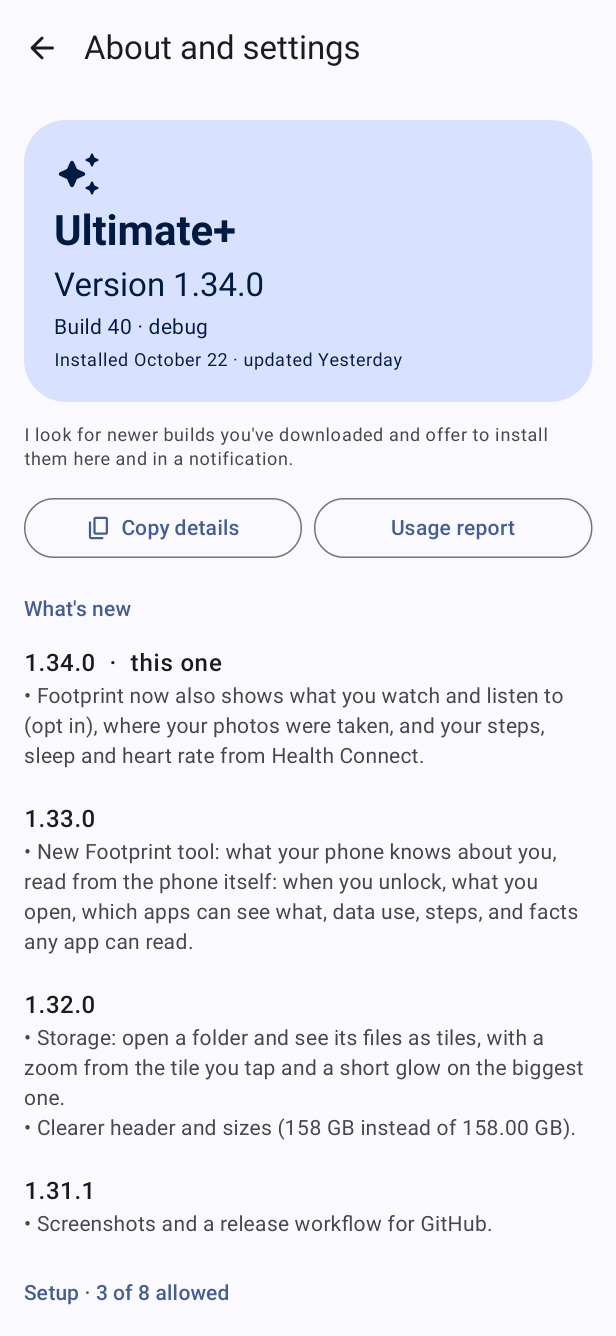
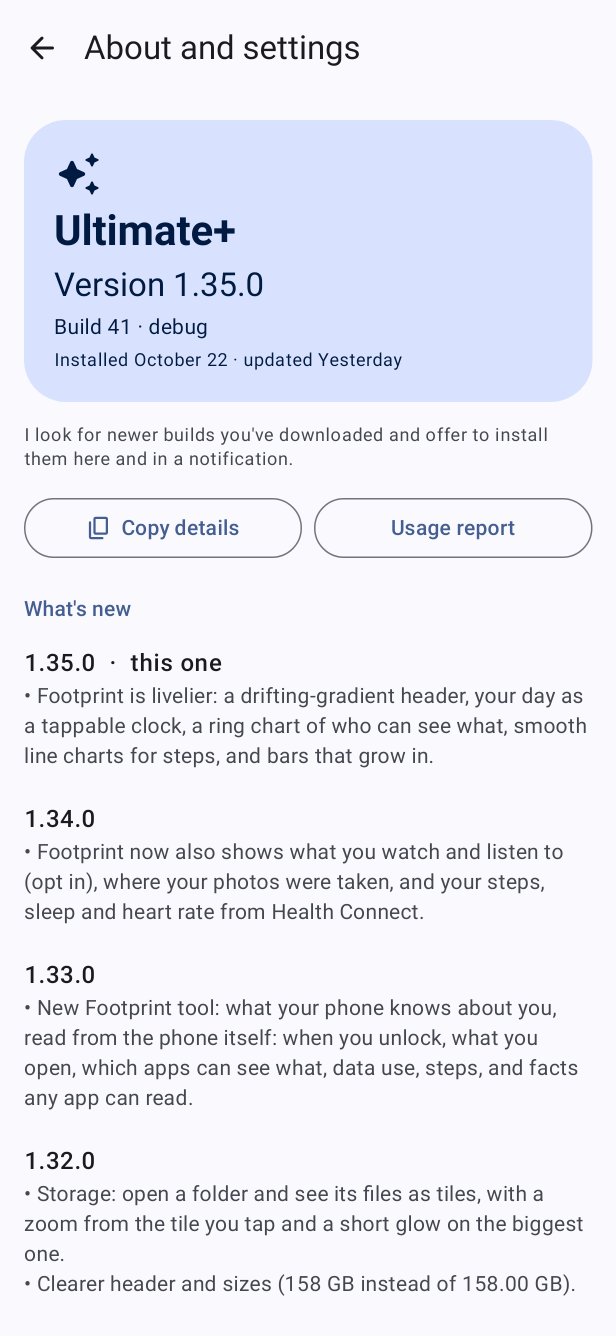
feat(footprint): exposure gauge, parallax header, shimmer, haptics, live map and equalizer (1.36.0)
Claude-Session: https://claude.ai/code/session_01Tx3SnRy1Ho2ASXx4YFffLW

Changed region(s): [[0.0308, 0.491, 0.9562, 0.982], [0.7711, 0.9513, 0.9253, 0.982]]

diff --git a/app/src/main/java/app/ultimate/footprint/FootprintCharts.kt b/app/src/main/java/app/ultimate/footprint/FootprintCharts.kt
@@ -32,6 +32,12 @@ import androidx.compose.runtime.setValue
 import androidx.compose.ui.Alignment
 import androidx.compose.ui.Modifier
 import androidx.compose.ui.draw.clip
+import androidx.compose.ui.draw.drawBehind
+import androidx.compose.ui.graphics.graphicsLayer
+import androidx.compose.ui.hapticfeedback.HapticFeedbackType
+import androidx.compose.ui.platform.LocalHapticFeedback
+import androidx.compose.animation.core.spring
+import androidx.compose.animation.core.Spring
 import androidx.compose.ui.geometry.Offset
 import androidx.compose.ui.geometry.Size
 import androidx.compose.ui.graphics.Brush
@@ -72,9 +78,12 @@ internal fun LiveHero(title: String, body: String) {
     val drift by t.animateFloat(0f, 1f, infiniteRepeatable(tween(9000, easing = LinearEasing), RepeatMode.Reverse), label = "drift")
     val pulse by t.animateFloat(0.4f, 1f, infiniteRepeatable(tween(1100, easing = FastOutSlowInEasing), RepeatMode.Reverse), label = "pulse")
     val a = MaterialTheme.colorScheme.primaryContainer; val b = MaterialTheme.colorScheme.tertiaryContainer; val on = MaterialTheme.colorScheme.onPrimaryContainer
+    val dots = remember { List(14) { i -> Triple((i * 37 % 100) / 100f, (i * 61 % 100) / 100f, 0.5f + (i % 4) * 0.35f) } }
+    val dotColor = MaterialTheme.colorScheme.primary
     Column(
         Modifier.fillMaxWidth().clip(RoundedCornerShape(28.dp))
             .background(Brush.linearGradient(listOf(a, b, a), start = Offset(-400f + 900f * drift, 0f), end = Offset(400f + 900f * drift, 500f)))
+            .drawBehind { dots.forEach { (x, y, r) -> drawCircle(dotColor.copy(alpha = 0.10f + 0.10f * ((drift + x) % 1f)), r * 5.dp.toPx(), Offset(((x + drift * 0.08f * r) % 1f) * size.width, ((y + drift * 0.05f) % 1f) * size.height)) } }
             .padding(20.dp),
         verticalArrangement = Arrangement.spacedBy(6.dp),
     ) {
@@ -95,10 +104,11 @@ internal fun DayClock(heat: Array<LongArray>) {
     val grow = remember(heat) { Animatable(0f) }
     LaunchedEffect(heat) { grow.animateTo(1f, tween(1000, easing = FastOutSlowInEasing)) }
     var picked by remember(heat) { mutableIntStateOf(-1) }
+    val haptics = LocalHapticFeedback.current
     val shown = if (picked >= 0) picked else peak
     val color = MaterialTheme.colorScheme.primary; val dim = MaterialTheme.colorScheme.surfaceVariant; val hot = MaterialTheme.colorScheme.tertiary
     Column(Modifier.fillMaxWidth().clip(RoundedCornerShape(22.dp)).background(MaterialTheme.colorScheme.surfaceContainerLow).padding(16.dp), horizontalAlignment = Alignment.CenterHorizontally) {
-        Box(Modifier.size(230.dp).clickable { picked = if (shown == null) -1 else (shown + 1) % 24 }, contentAlignment = Alignment.Center) {
+        Box(Modifier.size(230.dp).clickable { haptics.performHapticFeedback(HapticFeedbackType.TextHandleMove); picked = if (shown == null) -1 else (shown + 1) % 24 }, contentAlignment = Alignment.Center) {
             Canvas(Modifier.size(230.dp)) {
                 val c = center; val inner = size.minDimension * 0.24f; val outer = size.minDimension / 2f - 4.dp.toPx(); val max = (totals.maxOrNull() ?: 1L).coerceAtLeast(1L).toFloat()
                 for (h in 0 until 24) {
@@ -124,6 +134,7 @@ internal fun DayClock(heat: Array<LongArray>) {
 /** A ring split by kind of access, sweeping round once. Tap a slice's row to pick it. */
 @Composable
 internal fun AccessDonut(items: List<Pair<String, Int>>, colors: List<Color>, selected: Int, onPick: (Int) -> Unit) {
+    val haptics = LocalHapticFeedback.current
     val sweeps = remember(items) { ChartMath.sweeps(items.map { it.second }) }
     val grow = remember(items) { Animatable(0f) }
     LaunchedEffect(items) { grow.animateTo(1f, tween(1100, easing = FastOutSlowInEasing)) }
@@ -141,7 +152,7 @@ internal fun AccessDonut(items: List<Pair<String, Int>>, colors: List<Color>, se
         }
         Column(Modifier.padding(start = 16.dp), verticalArrangement = Arrangement.spacedBy(4.dp)) {
             items.take(6).forEachIndexed { i, (name, n) ->
-                Row(Modifier.fillMaxWidth().pressScale(0.97f).clip(RoundedCornerShape(10.dp)).clickable { onPick(if (selected == i) -1 else i) }.padding(vertical = 3.dp), verticalAlignment = Alignment.CenterVertically) {
+                Row(Modifier.fillMaxWidth().pressScale(0.97f).clip(RoundedCornerShape(10.dp)).clickable { haptics.performHapticFeedback(HapticFeedbackType.TextHandleMove); onPick(if (selected == i) -1 else i) }.padding(vertical = 3.dp), verticalAlignment = Alignment.CenterVertically) {
                     Box(Modifier.size(10.dp).clip(CircleShape).background(colors[i % colors.size])); Text("  $name", Modifier.weight(1f), maxLines = 1, style = MaterialTheme.typography.bodySmall); Text("$n", style = MaterialTheme.typography.labelLarge)
                 }
             }
@@ -170,5 +181,58 @@ internal fun AreaChart(values: List<Long>, modifier: Modifier = Modifier.fillMax
             drawPath(path, line, style = Stroke(3.dp.toPx(), cap = StrokeCap.Round))
         }
         if (draw.value >= 1f) drawCircle(line, 5.dp.toPx(), pt(values.size - 1))
+    }
+}
+
+
+/** A big gauge: how much the apps on this phone could see, from Quiet to Wide open. The arc sweeps round, the number counts up, and the colour warms as it climbs. */
+@Composable
+internal fun ExposureGauge(score: Int, word: String, detail: String) {
+    val haptics = LocalHapticFeedback.current
+    val shown = remember(score) { Animatable(0f) }
+    LaunchedEffect(score) {
+        shown.animateTo(score.toFloat(), spring(Spring.DampingRatioLowBouncy, Spring.StiffnessVeryLow))
+        haptics.performHapticFeedback(HapticFeedbackType.LongPress)
+    }
+    val track = MaterialTheme.colorScheme.surfaceVariant
+    val calm = MaterialTheme.colorScheme.primary; val warn = Color(0xFFF2A33A); val hot = MaterialTheme.colorScheme.error
+    val f = (shown.value / 100f).coerceIn(0f, 1f)
+    val arc = if (f < 0.5f) androidx.compose.ui.graphics.lerp(calm, warn, f * 2) else androidx.compose.ui.graphics.lerp(warn, hot, (f - 0.5f) * 2)
+    Column(Modifier.fillMaxWidth().clip(RoundedCornerShape(28.dp)).background(MaterialTheme.colorScheme.surfaceContainerLow).padding(20.dp), horizontalAlignment = Alignment.CenterHorizontally) {
+        Box(Modifier.size(200.dp), contentAlignment = Alignment.Center) {
+            Canvas(Modifier.size(200.dp)) {
+                val w = 18.dp.toPx(); val pad = w; val sz = Size(size.width - 2 * pad, size.height - 2 * pad)
+                drawArc(track, 150f, 240f, false, Offset(pad, pad), sz, style = Stroke(w, cap = StrokeCap.Round))
+                drawArc(arc.copy(alpha = 0.25f), 150f, 240f * f, false, Offset(pad - 3.dp.toPx(), pad - 3.dp.toPx()), Size(sz.width + 6.dp.toPx(), sz.height + 6.dp.toPx()), style = Stroke(w + 6.dp.toPx(), cap = StrokeCap.Round))
+                drawArc(arc, 150f, 240f * f, false, Offset(pad, pad), sz, style = Stroke(w, cap = StrokeCap.Round))
+            }
+            Column(horizontalAlignment = Alignment.CenterHorizontally) {
+                Text(Math.round(shown.value).toString(), style = MaterialTheme.typography.displayMedium, fontWeight = FontWeight.Bold, color = arc)
+                Text(word, style = MaterialTheme.typography.titleMedium, fontWeight = FontWeight.SemiBold)
+            }
+        }
+        Text(detail, style = MaterialTheme.typography.bodyMedium, color = MaterialTheme.colorScheme.onSurfaceVariant, modifier = Modifier.padding(top = 4.dp))
+    }
+}
+
+/** A grey bar that sweeps with light, standing in for content that is loading. */
+@Composable
+internal fun Shimmer(modifier: Modifier) {
+    val t = rememberInfiniteTransition(label = "shimmer")
+    val x by t.animateFloat(-1f, 2f, infiniteRepeatable(tween(1200, easing = LinearEasing)), label = "x")
+    val base = MaterialTheme.colorScheme.surfaceVariant; val hi = MaterialTheme.colorScheme.surfaceContainerHighest
+    Box(modifier.clip(RoundedCornerShape(16.dp)).background(Brush.horizontalGradient(listOf(base, hi, base), startX = x * 600f, endX = x * 600f + 500f)))
+}
+
+/** Three bars that bounce, to show something is being listened to right now. */
+@Composable
+internal fun Equalizer(modifier: Modifier = Modifier) {
+    val t = rememberInfiniteTransition(label = "eq")
+    val a by t.animateFloat(0.2f, 1f, infiniteRepeatable(tween(520, easing = FastOutSlowInEasing), RepeatMode.Reverse), label = "a")
+    val b by t.animateFloat(1f, 0.25f, infiniteRepeatable(tween(680, easing = FastOutSlowInEasing), RepeatMode.Reverse), label = "b")
+    val c by t.animateFloat(0.3f, 0.9f, infiniteRepeatable(tween(440, easing = FastOutSlowInEasing), RepeatMode.Reverse), label = "c")
+    val color = MaterialTheme.colorScheme.primary
+    Canvas(modifier.size(18.dp)) {
+        listOf(a, b, c).forEachIndexed { i, v -> val w = size.width / 5f; val h = size.height * v; drawRoundRect(color, Offset(i * 2 * w, size.height - h), Size(w, h), androidx.compose.ui.geometry.CornerRadius(w / 2)) }
     }
 }

diff --git a/app/src/main/java/app/ultimate/footprint/FootprintTool.kt b/app/src/main/java/app/ultimate/footprint/FootprintTool.kt
@@ -9,8 +9,10 @@ import androidx.compose.animation.core.Animatable
 import androidx.compose.animation.core.FastOutSlowInEasing
 import androidx.compose.animation.core.LinearEasing
 import androidx.compose.animation.core.tween
+import androidx.compose.animation.animateContentSize
 import androidx.compose.animation.core.animateFloatAsState
 import app.ultimate.core.appear
+import androidx.compose.ui.graphics.graphicsLayer
 import androidx.compose.foundation.Canvas
 import androidx.compose.foundation.background
 import androidx.compose.foundation.clickable
@@ -116,11 +118,12 @@ internal fun FootprintScreen(app: UltimateApp, onExit: () -> Unit, preset: Loade
     val seen = remember { mutableSetOf<Any>() }
     var slice by remember { mutableIntStateOf(-1) }
     val d = data
+    val listState = androidx.compose.foundation.lazy.rememberLazyListState()
 
     Scaffold(topBar = { TopAppBar(title = { Text("Footprint") }, navigationIcon = { ToolBackButton(onExit) }, actions = { ShellActions() }) }) { pad ->
-        LazyColumn(Modifier.padding(pad), contentPadding = PaddingValues(16.dp), verticalArrangement = Arrangement.spacedBy(14.dp)) {
-            item { LiveHero("What your phone knows about you", "Everything on this page was read from this phone, just now, and stays on it. It is what any app you let in could learn too.") }
-            if (d == null) { item { Text("Reading your phone…", color = MaterialTheme.colorScheme.onSurfaceVariant) }; return@LazyColumn }
+        LazyColumn(Modifier.padding(pad), state = listState, contentPadding = PaddingValues(16.dp), verticalArrangement = Arrangement.spacedBy(14.dp)) {
+            item { Box(Modifier.graphicsLayer { val o = if (listState.firstVisibleItemIndex == 0) listState.firstVisibleItemScrollOffset.toFloat() else 600f; translationY = o * 0.45f; alpha = (1f - o / 500f).coerceIn(0f, 1f) }) { LiveHero("What your phone knows about you", "Everything on this page was read from this phone, just now, and stays on it. It is what any app you let in could learn too.") } }
+            if (d == null) { items(4) { Shimmer(Modifier.fillMaxWidth().height(if (it == 0) 120.dp else 80.dp)) }; return@LazyColumn }
 
             item {
                 val locationApps = d.apps.count { Access.Location in it.access || Access.BackgroundLocation in it.access }
@@ -132,6 +135,11 @@ internal fun FootprintScreen(app: UltimateApp, onExit: () -> Unit, preset: Loade
                     item { Stat("Apps that know where you are", locationApps.toFloat()) { Math.round(it).toString() } }
                     item { Stat("Facts any app can read", d.facts.size.toFloat()) { Math.round(it).toString() } }
                 }
+            }
+
+            item {
+                val score = ExposureMath.score(d.apps); val big = ExposureMath.biggest(d.apps)
+                Box(Modifier.appear("gauge", seen, 1)) { ExposureGauge(score, ExposureMath.word(score), big?.let { (a, n) -> "$n of your apps can see ${a.label.lowercase()}. That counts most. Tap a row below to see which." } ?: "No app you installed holds a sensitive permission.") }
             }
 
             if (d.usage == null) item {
@@ -249,7 +257,7 @@ private fun AppBar(pkg: String, label: String, fraction: Float, detail: String) 
 @Composable
 private fun Fact(f: Fact) {
     var open by remember { mutableStateOf(false) }
-    Column(Modifier.fillMaxWidth().clip(RoundedCornerShape(14.dp)).clickable { open = !open }.padding(vertical = 6.dp)) {
+    Column(Modifier.fillMaxWidth().pressScale(0.98f).clip(RoundedCornerShape(14.dp)).clickable { open = !open }.padding(vertical = 6.dp).animateContentSize()) {
         Text(f.name, style = MaterialTheme.typography.labelMedium, color = MaterialTheme.colorScheme.primary)
         Text(f.value, style = MaterialTheme.typography.bodyMedium, maxLines = if (open) 6 else 1, overflow = TextOverflow.Ellipsis)
         if (open) Text(f.why, style = MaterialTheme.typography.bodySmall, color = MaterialTheme.colorScheme.onSurfaceVariant)

diff --git a/app/src/main/java/app/ultimate/footprint/FootprintExtras.kt b/app/src/main/java/app/ultimate/footprint/FootprintExtras.kt
@@ -25,6 +25,8 @@ import androidx.compose.material3.MaterialTheme
 import androidx.compose.material3.Switch
 import androidx.compose.material3.Text
 import androidx.compose.material3.TextButton
+import androidx.compose.animation.core.Animatable
+import androidx.compose.animation.core.animateFloat
 import androidx.compose.runtime.Composable
 import androidx.compose.runtime.LaunchedEffect
 import androidx.compose.runtime.getValue
@@ -62,6 +64,7 @@ internal fun MediaCard() {
     LaunchedEffect(on, tick) { list = if (on) withContext(Dispatchers.IO) { log.since(System.currentTimeMillis() - 30 * 86_400_000L) } else emptyList() }
     Column(card(), verticalArrangement = Arrangement.spacedBy(8.dp)) {
         Row(verticalAlignment = Alignment.CenterVertically) {
+            if (on && access) { Equalizer(); androidx.compose.foundation.layout.Spacer(Modifier.padding(end = 8.dp)) }
             Text("Keep what I watch and listen to", Modifier.weight(1f), fontWeight = FontWeight.Medium)
             Switch(on, { on = it; log.enabled = it })
         }
@@ -130,12 +133,17 @@ internal fun PlacesCard() {
             val minLat = places.minOf { it.lat }; val maxLat = places.maxOf { it.lat }; val minLon = places.minOf { it.lon }; val maxLon = places.maxOf { it.lon }
             val dot = MaterialTheme.colorScheme.primary; val home = MaterialTheme.colorScheme.tertiary
             val homePlace = remember(places) { PlaceMath.home(places) }
+            val pop = remember(places) { Animatable(0f) }
+            LaunchedEffect(places) { pop.animateTo(1f, androidx.compose.animation.core.tween(1200, easing = androidx.compose.animation.core.FastOutSlowInEasing)) }
+            val ping by androidx.compose.animation.core.rememberInfiniteTransition(label = "ping").animateFloat(0f, 1f, androidx.compose.animation.core.infiniteRepeatable(androidx.compose.animation.core.tween(1800)), label = "ping")
             Canvas(Modifier.fillMaxWidth().height(180.dp).clip(RoundedCornerShape(16.dp)).background(MaterialTheme.colorScheme.surfaceContainer)) {
                 val pad = 18.dp.toPx(); val max = places.maxOf { it.count }.toFloat()
                 places.forEach { p ->
                     val x = pad + (if (maxLon > minLon) ((p.lon - minLon) / (maxLon - minLon)).toFloat() else 0.5f) * (size.width - 2 * pad)
                     val y = pad + (if (maxLat > minLat) (1 - ((p.lat - minLat) / (maxLat - minLat))).toFloat() else 0.5f) * (size.height - 2 * pad)
-                    drawCircle((if (p === homePlace) home else dot).copy(alpha = 0.75f), (4 + 10 * p.count / max).dp.toPx(), Offset(x, y))
+                    val r = (4 + 10 * p.count / max).dp.toPx() * (pop.value * 1.0f).coerceIn(0f, 1f)
+                    if (p === homePlace) drawCircle(home.copy(alpha = 0.35f * (1f - ping)), r + 22.dp.toPx() * ping, Offset(x, y))
+                    drawCircle((if (p === homePlace) home else dot).copy(alpha = 0.75f), r, Offset(x, y))
                 }
             }
             places.take(4).forEach { p ->

diff --git a/app/src/test/java/app/ultimate/FootprintTest.kt b/app/src/test/java/app/ultimate/FootprintTest.kt
@@ -261,3 +261,23 @@ class ChartMathTest {
         assertEquals(listOf(1f, 0.5f, 0f), y)
     }
 }
+
+class ExposureMathTest {
+    private fun app(vararg a: app.ultimate.footprint.Access, system: Boolean = false) = app.ultimate.footprint.AppAccess("p", "A", system, a.toSet())
+    @Test fun nothingSensitiveScoresZeroAndSystemAppsDoNotCount() {
+        assertEquals(0, app.ultimate.footprint.ExposureMath.score(emptyList()))
+        assertEquals(0, app.ultimate.footprint.ExposureMath.score(listOf(app(app.ultimate.footprint.Access.Camera, system = true), app(app.ultimate.footprint.Access.Internet))))
+    }
+    @Test fun scoreRisesButLevelsOff() {
+        val one = listOf(app(app.ultimate.footprint.Access.BackgroundLocation))
+        val many = List(200) { app(app.ultimate.footprint.Access.BackgroundLocation, app.ultimate.footprint.Access.Microphone) }
+        val s1 = app.ultimate.footprint.ExposureMath.score(one); val s2 = app.ultimate.footprint.ExposureMath.score(List(5) { one[0] })
+        assertTrue(s1 in 1..20); assertTrue(s2 > s1); assertEquals(100, app.ultimate.footprint.ExposureMath.score(many))
+    }
+    @Test fun wordsAndBiggest() {
+        assertEquals(listOf("Quiet", "Busy", "Open", "Wide open"), listOf(0, 30, 60, 90).map { app.ultimate.footprint.ExposureMath.word(it) })
+        val b = app.ultimate.footprint.ExposureMath.biggest(listOf(app(app.ultimate.footprint.Access.Location), app(app.ultimate.footprint.Access.Location, app.ultimate.footprint.Access.Camera)))!!
+        assertEquals(app.ultimate.footprint.Access.Location, b.first); assertEquals(2, b.second)
+        assertNull(app.ultimate.footprint.ExposureMath.biggest(emptyList()))
+    }
+}

diff --git a/app/src/main/java/app/ultimate/footprint/FootprintMath.kt b/app/src/main/java/app/ultimate/footprint/FootprintMath.kt
@@ -79,3 +79,23 @@ object StepMath {
 
     fun dayStartLocal(day: Long) = day * 86_400_000L
 }
+
+/** One number for "how much could the apps on this phone see": every sensitive permission an installed app holds adds a little, the riskiest more. */
+object ExposureMath {
+    private val weight = mapOf(
+        Access.BackgroundLocation to 5.0, Access.Messages to 4.0, Access.Calls to 3.0, Access.Microphone to 3.0, Access.Contacts to 2.5, Access.Camera to 2.0,
+        Access.Location to 2.0, Access.Photos to 1.0, Access.Calendar to 1.5, Access.Body to 1.5, Access.Nearby to 1.0, Access.ScreenTime to 2.0,
+    )
+
+    /** 0 to 100, rising quickly at first then levelling off, so a few apps already show and a hundred do not all look the same. Built-in apps are not counted. */
+    fun score(apps: List<AppAccess>): Int {
+        val w = apps.filter { !it.system }.sumOf { a -> a.access.sumOf { weight[it] ?: 0.0 } }
+        return Math.round(100 * (1 - Math.exp(-w / 60.0))).toInt().coerceIn(0, 100)
+    }
+
+    fun word(score: Int) = when { score < 25 -> "Quiet"; score < 50 -> "Busy"; score < 75 -> "Open"; else -> "Wide open" }
+
+    /** The one permission that adds most, to say what to look at first. */
+    fun biggest(apps: List<AppAccess>): Pair<Access, Int>? =
+        apps.filter { !it.system }.flatMap { it.access }.filter { it in weight }.groupingBy { it }.eachCount().maxByOrNull { (a, n) -> (weight[a] ?: 0.0) * n }?.toPair()
+}

diff --git a/app/src/main/java/app/ultimate/home/AboutInfo.kt b/app/src/main/java/app/ultimate/home/AboutInfo.kt
@@ -34,6 +34,7 @@ object Changelog {
     data class Entry(val version: String, val notes: List<String>)
 
     val entries = listOf(
+        Entry("1.36.0", listOf("Footprint: an exposure gauge for how much your apps can see, a header that drifts away as you scroll, shimmer while loading, haptic taps, a pulsing home dot on the places map, and a live equalizer on watch history.")),
         Entry("1.35.0", listOf("Footprint is livelier: a drifting-gradient header, your day as a tappable clock, a ring chart of who can see what, smooth line charts for steps, and bars that grow in.")),
         Entry("1.34.0", listOf("Footprint now also shows what you watch and listen to (opt in), where your photos were taken, and your steps, sleep and heart rate from Health Connect.")),
         Entry("1.33.0", listOf("New Footprint tool: what your phone knows about you, read from the phone itself: when you unlock, what you open, which apps can see what, data use, steps, and facts any app can read.")),

diff --git a/app/src/test/java/app/ultimate/AboutTest.kt b/app/src/test/java/app/ultimate/AboutTest.kt
@@ -33,7 +33,7 @@ class AboutTest {
 
     @Test fun theChangelogStartsAtTheCurrentVersion() {
         assertEquals(listOf("1.30.0", "1.29.0"), Changelog.recent("1.30.0", 2).map { it.version })
-        assertEquals("1.35.0", Changelog.entries.first().version)
+        assertEquals("1.36.0", Changelog.entries.first().version)
         assertEquals(Changelog.entries.first().version, Changelog.recent("9.9.9", 1).single().version) // an unknown version still shows the latest news
         assertTrue(Changelog.entries.map { it.version }.toSet().size == Changelog.entries.size)
     }
